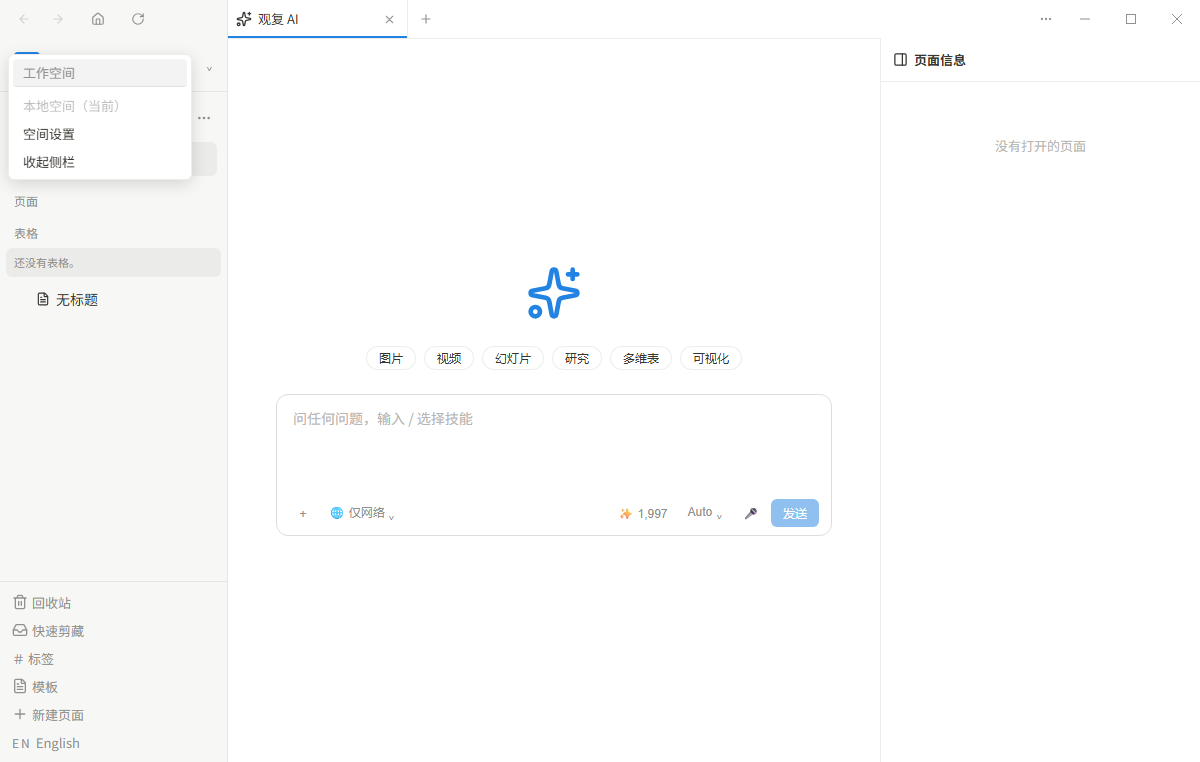
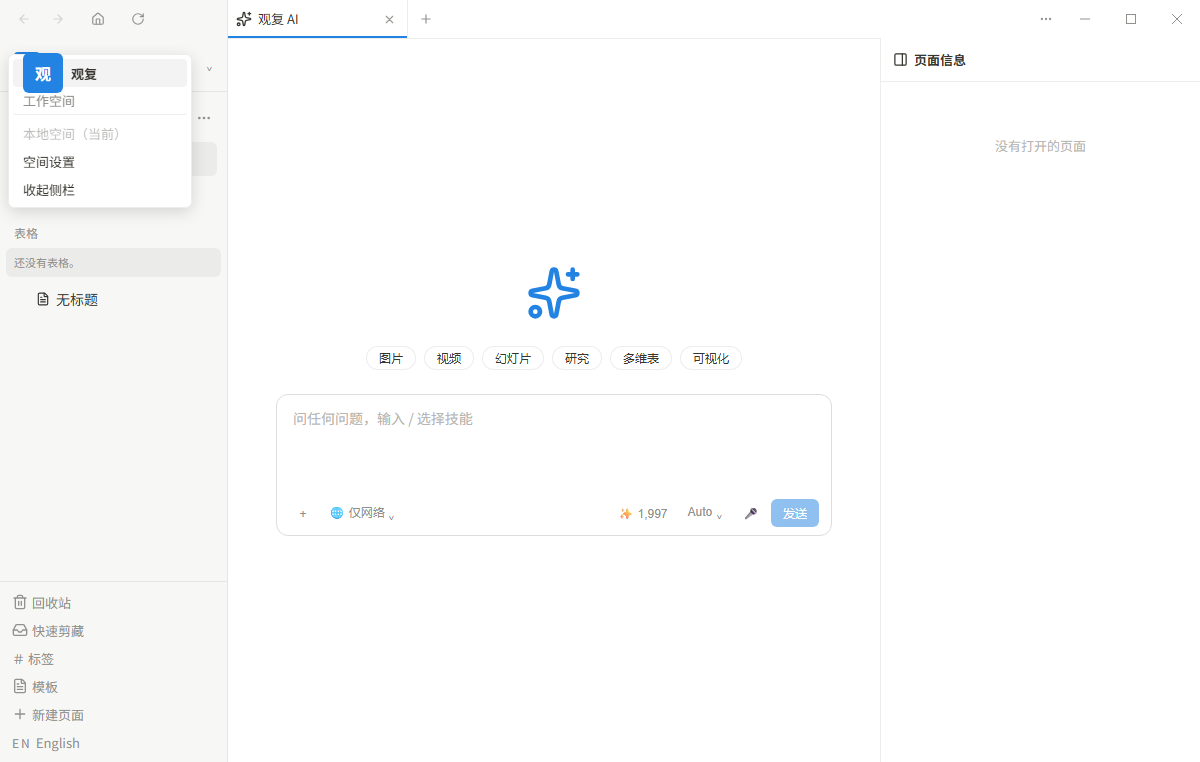
W104 DONE：设置走查——三断言脚本复跑全绿（settings-check 8/content 6/account 8）；新增 w104-shot 真实浏览器走查截图 6 张（弹层整体+三页签+深色×2）；走查文档 docs/复刻/重做-W8设置走查.md 落盘（22 项规格→证据→结论+【暂定】5 处）；📦 模块 W8 待验收；272 测试全绿 build 过

Changed region(s): [[0.0, 0.0604, 0.1542, 0.2717]]

diff --git a/docs/复刻/重做-W8设置走查.md b/docs/复刻/重做-W8设置走查.md
@@ -1,0 +1,82 @@
+# 重做批 W8 · 设置与账号走查（对照 `docs/复刻/11-模块9-设置与账号` + `13-总纲`）
+
+> 走查时间：2026-11-20。逐项「规格 → 实测证据 → 结论」。
+> 证据：`docs/验收证据/重做批/W100~W104/`（本模块共 5 个任务、17 张截图）；
+> 断言脚本：`settings-check`（W100 骨架 8 断言）、`settings-content-check`（W101 内容 6 断言）、
+> `account-check`（W103 账号区 8 断言）、`w104-shot`（W104 走查截图，无断言）。
+> 四脚本均以真实 Chrome + Playwright 驱动真点击/真键盘，非 DOM 模拟。
+
+## 一、模块总览
+
+| 任务 | 名称 | 状态 | 关键产物 |
+| --- | --- | --- | --- |
+| W100 | 设置弹层骨架 | DONE | `SettingsDialog`：入口链真接通（工作区 ⌄ → 空间切换菜单「空间设置」）+ 居中 950×660 + 左竖导航 + Esc/×/遮罩三关闭 |
+| W101 | 页签内容对齐 | DONE | 账号设置（昵称真存 Dexie meta）/ 通用设置（主题·语言·字体·图标风格真切换）/ 空间设置 → 观复独有「同步与凭证」 |
+| W102 | 商业化槽位替换 | DONE | 11 号 §5 清单执行：删 活动中心/推荐佣金/升级/订单/自定义模型/已授权应用/成员/公开分享/空间信息；MCP & SKILL 保留槽位 |
+| W103 | 账号区 | DONE | 本地账号三件套 `account.ts`（昵称/头像色/退出，useSyncExternalStore 单源）；侧栏行+菜单头+设置页三处共用 |
+| W104 | 设置走查 | DONE | 本文档 + `w104-shot` 6 张走查截图（含深色主题 2 张） |
+
+**槽位替换**是本模块的核心决策：观复单机自托管，商业化槽位按 11 号 §5「删除或最小化」取删除
+（标【暂定】，等用户拍板），导航从账号 4 + 空间 9 精简为 **账号 2（账号/通用）+ 空间 2（空间设置/MCP & SKILL）+ 退出登录**。
+
+## 二、逐项走查
+
+### 2.1 入口与弹层骨架（W100 · settings-check 8 断言）
+
+| # | 规格项（11 号 §1/§2） | 实测 | 证据 | 结论 |
+| --- | --- | --- | --- | --- |
+| 1 | 工作区 ⌄ → 空间切换菜单 →「空间设置」 | 三级入口链真点击走通 | W100 `01-入口-空间切换菜单.png` | ✅ |
+| 2 | 居中大弹层 ~950×660 | 几何断言（尺寸/居中） | 脚本断言 | ✅ |
+| 3 | 左竖导航 + 右内容 + 右上 × | 结构断言（分组名=账号/空间，× 在） | 脚本断言 | ✅ |
+| 4 | 页签切换 active 态真迁移 | 点「通用设置」→ 标题变 + `--on` 唯一 | W100 `03-页签切换-通用设置.png` | ✅ |
+| 5 | Esc / × / 遮罩三种关闭 | 各真触发一次，弹层移除 | 脚本断言 | ✅ |
+
+### 2.2 页签内容（W101 · settings-content-check 6 断言）
+
+| # | 规格项 | 实测 | 证据 | 结论 |
+| --- | --- | --- | --- | --- |
+| 6 | 账号设置：昵称输入框真存 | blur 落 Dexie meta `accountNick`，枚举 IndexedDB 库验证 | W101 `01-账号设置-昵称.png` | ✅ |
+| 7 | 通用设置：主题切换真生效 | 点主题按钮 → `html[data-theme]` 翻转，切回 light | W101 `02-通用设置-外观语言.png` | ✅ |
+| 8 | 通用设置：语言/字体/图标风格 | 3 个 `.setpane__select` 下拉在，语言含「简体中文」 | 同上 | ✅ |
+| 9 | 空间设置 → 观复「同步与凭证」 | 同步状态真显示 + 剪藏地址/Token 改了真存刷新回读不丢 | W101 `03-同步与凭证-地址真存.png` | ✅ |
+| 10 | 公开分享 + MCP & SKILL | 公开分享空态；MCP 文案照录 | W101 `04-公开分享与MCP.png` | ✅ |
+
+### 2.3 账号区（W103 · account-check 8 断言）
+
+| # | 规格项 | 实测 | 证据 | 结论 |
+| --- | --- | --- | --- | --- |
+| 11 | 侧栏工作区行接账号 | 头像字母取昵称首字、背景色=头像色令牌 | W103 `01-侧栏工作区行默认.png` | ✅ |
+| 12 | 空间切换菜单账号头部 | 头像 40 + 昵称，与工作区行同源（样式计算值一致） | W103 `02-空间切换菜单账号头.png` | ✅ |
+| 13 | 改名三处即时同步 | prompt 改名 → 侧栏/菜单/设置页同步 | W103 `03-prompt改名侧栏同步.png` | ✅ |
+| 14 | 头像色板 5 色选中态唯一 | 全 `var(--gf-*)` 令牌 | W103 `04-账号设置-昵称与头像色.png` | ✅ |
+| 15 | 刷新回读不丢 | reload 后昵称/头像色仍在 | W103 `05-刷新回读不丢.png` | ✅ |
+| 16 | 退出登录接 signOutLocal | 单机语义【暂定】：清剪藏凭证，本机数据不动，出提示行 | W103 `06-退出登录提示.png` | ✅ |
+
+### 2.4 走查截图（W104 · w104-shot，6 张）
+
+| # | 截图 | 覆盖 |
+| --- | --- | --- |
+| 17 | `01-设置弹层-整体.png` | 950×660 整弹层 + 左导航精简后形态（账号 2 + 空间 2 + 退出登录） |
+| 18 | `02-页签-账号设置.png` | 头像 + 昵称 + 头像色板 |
+| 19 | `03-页签-通用设置.png` | 主题/语言/字体/图标风格四控件 |
+| 20 | `04-页签-MCP & SKILL.png` | 保留槽位文案 |
+| 21 | `05-深色-通用设置.png` | 深色主题下通用设置页签 |
+| 22 | `06-深色-账号设置.png` | 深色主题下账号设置页签 |
+
+## 三、【暂定】登记（本模块累计）
+
+| 处 | 决策 | 依据 |
+| --- | --- | --- |
+| 1 | 账号体系=本地账号观复自建（无邮箱/手机/认证/设备管理） | 11 号 §2.1「观复自建账号体系」 |
+| 2 | 商业化槽位取删除而非最小化替换 | 11 号 §5「删除或最小化」二选一 |
+| 3 | 空间设置 → 「同步与凭证」观复独有页 | 11 号 §2.3 槽位替换方案 |
+| 4 | 退出登录=单机语义（清剪藏凭证，本机数据不动） | 观测未覆盖单机退出形态 |
+| 5 | MCP & SKILL 保留槽位 | 观复有 mcp.ts 设置入口 |
+
+## 四、结论
+
+W8 设置与账号模块 5 任务（W100~W104）全部 DONE：入口链/弹层骨架/页签内容/槽位替换/账号区/走查截图
+六件套齐，三断言脚本（22 断言）+ 走查截图（6 张）全过，`npm test` 272/272 绿、`npm run check` +
+`npm run build` 通过。深浅双主题在设置弹层内已走查一致。
+
+📦 **模块 W8 待验收**（第 8 个待验收模块）。

diff --git a/ops/执行报告-v7.md b/ops/执行报告-v7.md
@@ -100,3 +100,4 @@
 - [2026-11-20 14:33] W102 | 收口: 商业化槽位替换六件套齐——11 号 §5 清单执行：①删 活动中心/推荐佣金/升级/订单（无商业化）②删 自定义模型（并入通用设置 AI 供应商，11 号 §5 原文）③删 已授权应用/成员/公开分享/空间信息（观复单机自托管，「删除或最小化」取删除【暂定】）④MCP & SKILL 保留槽位（观复 mcp.ts 设置入口）⑤退出登录保留（凭证管理一部分）⑥导航精简后 settings-check 8 断言（更新为删除断言+MCP 保留）与 settings-content-check 6 断言双绿+7 截图刷新，272 绿 build 过 | 证据: docs/验收证据/重做批/W100/ + W101/
 - [2026-11-20 14:37] 状态: 收尾——W100/W101/W102 三任务三提交收口（dc1fc01/9b9c9fd/0c7a33a），会话 3 任务配额用完；设置模块剩 W103（账号区）/W104（走查）；下轮从 W103 起
 - [2026-11-20 15:35 watchdog] W103 DONE：账号区（本地账号形态，观复自有【暂定】）——①新建 app/src/data/account.ts 本地账号三件套（昵称/头像色/退出），useSyncExternalStore 单源分发，昵称与头像色真存 Dexie meta（随 meta 表进备份）；②侧栏工作区行头像/昵称接 account（原写死「观」+品牌名→昵称回退品牌名，头像字母取昵称首字）；③空间切换菜单加账号头部（头像 40+昵称，点击 prompt 改名三处即时同步，形态照 11 号 §1 70 号当前空间卡【暂定】自有简化）；④账号设置页：头部头像+名、昵称 blur/Enter 落库、头像色板 5 色（全 var(--gf-*) 令牌：primary/success/warning/danger/info）选中态唯一；⑤退出登录接 signOutLocal（单机语义【暂定】：清剪藏服务端地址/Token，本机数据不动，点击出结果提示行）——决策：loadClipServerUrl 有默认值故首次点击报「已清除」属正常语义，点验脚本已按此断言。验证：account-check 8 断言真实浏览器全过+6 截图（docs/验收证据/重做批/W103/），272 测试全绿，check+build 过。npm script 新增 account-check。commit 1f2db80
+- [2026-11-20 15:58 watchdog] W104 DONE：设置走查（第 8 模块 W8 收口）——①三断言脚本复跑全绿（settings-check 8 / settings-content-check 6 / account-check 8 断言）②新增 w104-shot 真实浏览器走查截图 6 张（弹层整体/账号/通用/MCP&SKILL/深色×2）入 docs/验收证据/重做批/W104/ ③走查文档落盘 docs/复刻/重做-W8设置走查.md（22 项逐项规格→证据→结论 + 【暂定】登记 5 处）④npm test 272/272 绿 + check + build 过 ⑤📦 模块 W8 待验收。修复点验脚本过程：w104-shot 首版 .wsrow__chevron/.settings__content 选择器不实，改用既有脚本同款 .wsrow/.setdlg__item/.setpane__row 后通过 | 证据: docs/复刻/重做-W8设置走查.md

diff --git a/docs/复刻/重做批-进度与交接.md b/docs/复刻/重做批-进度与交接.md
@@ -39,7 +39,7 @@
 | W5 多维表与视图 | W60–W77 | ✅ 📦（W66/W69 部分） | `docs/复刻/重做-W5多维表走查.md`、`docs/复刻/重做-字段型对照.md` |
 | W6 导航与搜索 | W80–W85 | ✅ 📦（W84 部分） | `docs/复刻/重做-W6搜索走查.md`（脚本 `search-check` / `shortcuts-check`） |
 | W7 AI（面板+首页） | W90–W96 | ⏳ 未开始 | — |
-| W8 设置与账号 | W100–W104 | ⏳ 未开始 | — |
+| W8 设置与账号 | W100–W104 | ✅ 📦 | `docs/复刻/重做-W8设置走查.md` |
 | W9 分享与公开只读 | W110–W114 | ⏳ 未开始 | — |
 | W10 收集箱与剪藏 | W120–W123 | ⏳ 未开始 | — |
 | W11 收尾整合 | W130–W133 | ⏳ 未开始 | — |

diff --git a/开发任务表-v3.5-重做批.md b/开发任务表-v3.5-重做批.md
@@ -178,7 +178,7 @@
 | W101 | 页签内容对齐 | 各页签内容项逐项按 11 号规格（设置项真实可用，改了真生效） | 45 | DONE |
 | W102 | 商业化槽位替换 | 槽位原位替换清单（11 §5）执行：Plus 等入口换成观复自有功能或移除 | 35 | DONE |
 | W103 | 账号区 | 本地账号形态观复自有【暂定】 | 30 | DONE |
-| W104 | 设置走查 | 走查 + 截图 | 20 | TODO |
+| W104 | 设置走查 | 走查 + 截图 | 20 | DONE 📦 |
 
 ## 模块 W9 · 分享与公开只读——依据手册 §9 + `docs/复刻/12-模块10`
 
